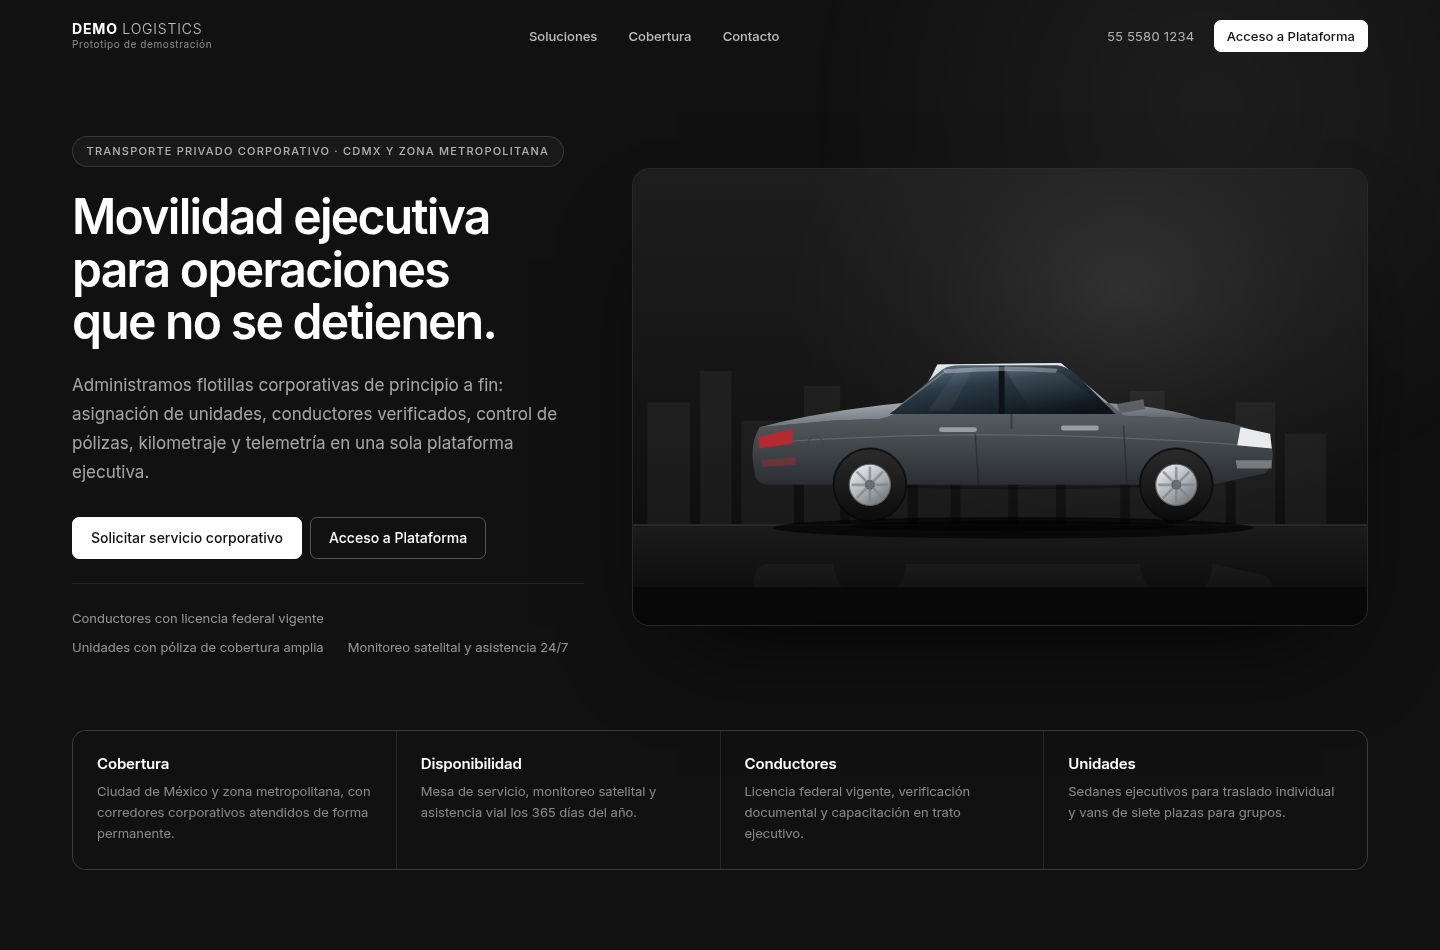
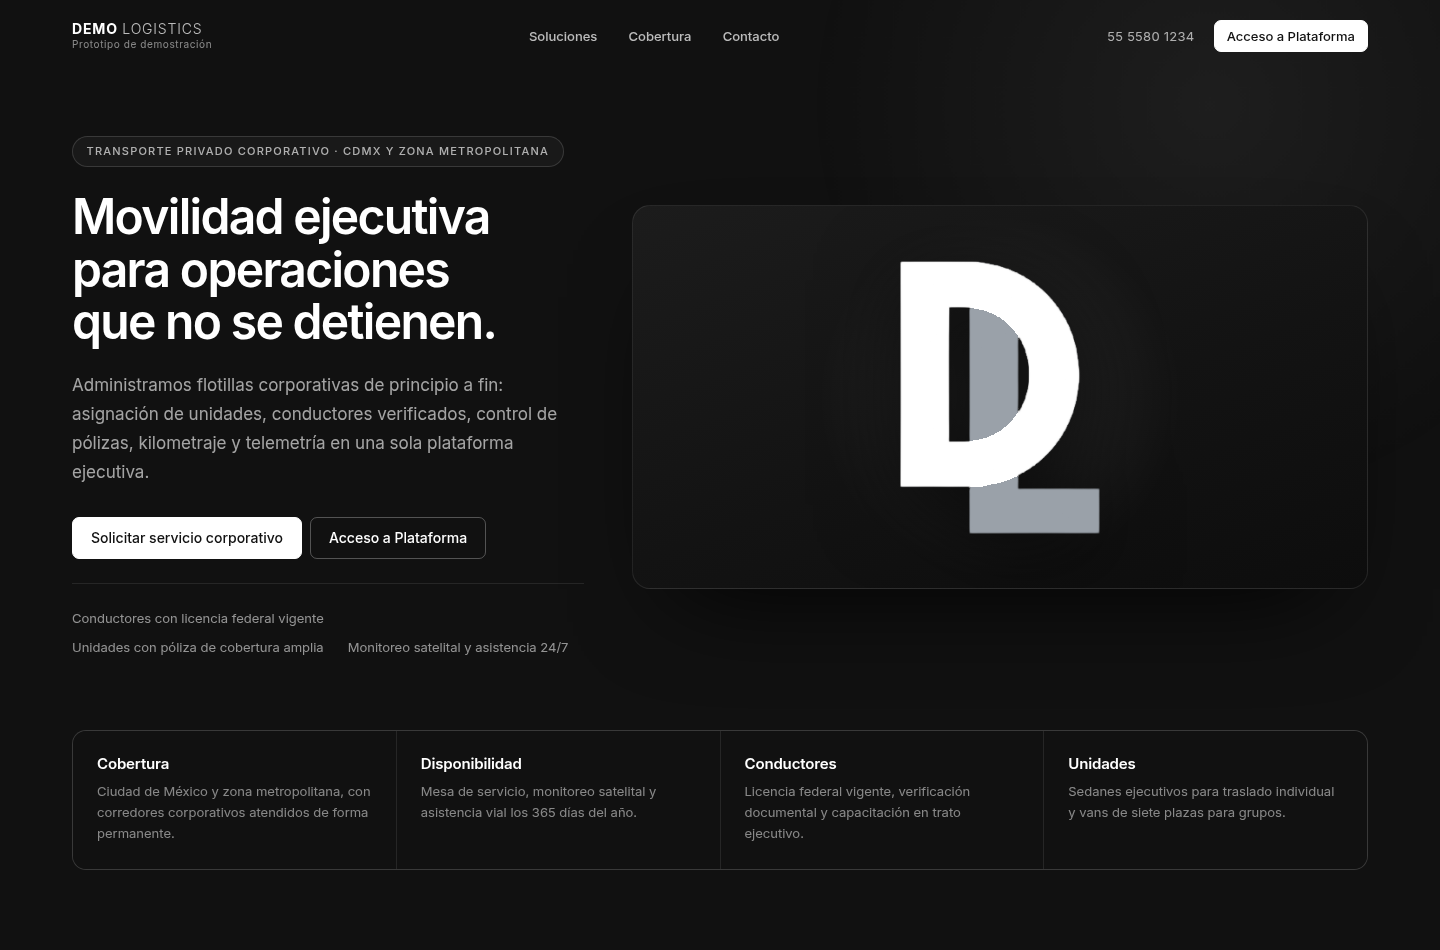
feat(marca): usa el logotipo en la landing y como icono de la pestaña
Sustituye la ilustración del automóvil por el logotipo entregado
(/home/cocorilla/Descargas/temp/a/logo.png) y lo adopta como icono del
navegador.

Logotipo
- Se recorta el espacio transparente sobrante: el monograma ocupa 200x273 px
  dentro de un lienzo de 666x375 con 84 % de área vacía.
- Se generan dos variantes: `logo.png` con los tonos originales (negro y gris)
  para superficies claras y `logo-claro.png` con los tonos remapeados a blanco
  y gris claro para superficies oscuras. El hero tiene fondo negro, así que usa
  la variante clara; de otro modo el monograma sería invisible.
- El hero deja de mostrar la ilustración del sedán y pasa a mostrar el
  monograma centrado sobre un panel oscuro con un halo suave.

Icono de la pestaña
- `favicon-32.png` (32x32) y `apple-touch-icon.png` (180x180): monograma claro
  sobre una placa oscura redondeada, para que se lea tanto en barras de
  pestañas claras como oscuras.
- `images/icono-512.png` (512x512) para usos de mayor tamaño.
- Se retiran `favicon.ico` y `favicon.svg`, que ya no se referencian.

Limpieza
- Se eliminan `unidad-ejecutiva.svg` y `unidad-ejecutiva.png`.

Verificación: 34 pruebas de backend, 4 de frontend, build de producción sin
avisos y 33 comprobaciones visuales, más una específica que confirma que el
logo carga, que los iconos se declaran y sirven, y que los recursos obsoletos
responden 404. 0 errores de página.

Changed region(s): [[0.5, 0.2747, 0.9062, 0.58], [0.75, 0.2747, 0.8125, 0.3358]]

diff --git a/frontend/src/app/features/landing/components/hero/hero.scss b/frontend/src/app/features/landing/components/hero/hero.scss
@@ -66,26 +66,45 @@
   color: rgba(255, 255, 255, 0.55);
 }
 
-/* --- Ilustración --- */
+/* --- Marcador de marca --- */
 .dl-hero__figure {
   position: relative;
+  display: grid;
+  place-items: center;
+  min-height: 24rem;
   margin: 0;
+  padding: 3rem;
   border-radius: 18px;
   overflow: hidden;
   border: 1px solid rgba(255, 255, 255, 0.09);
+  background: linear-gradient(160deg, #1c1c1c 0%, #131313 55%, #0d0d0d 100%);
   box-shadow: 0 46px 100px -46px rgba(0, 0, 0, 0.95);
-  background: #141414;
 }
 
-.dl-hero__image {
+.dl-hero__halo {
+  position: absolute;
+  top: 50%;
+  left: 50%;
+  width: 26rem;
+  height: 26rem;
+  margin: -13rem 0 0 -13rem;
+  border-radius: 50%;
+  background: radial-gradient(circle, rgba(255, 255, 255, 0.09) 0%, rgba(255, 255, 255, 0) 62%);
+  pointer-events: none;
+}
+
+.dl-hero__logo {
+  position: relative;
   display: block;
-  width: 100%;
+  width: auto;
+  max-width: 46%;
+  max-height: 18rem;
   height: auto;
-  transform: scale(1.01);
-  transition: transform 1.2s cubic-bezier(0.22, 0.61, 0.36, 1);
+  filter: drop-shadow(0 18px 40px rgba(0, 0, 0, 0.65));
+  transition: transform 1.1s cubic-bezier(0.22, 0.61, 0.36, 1);
 }
 
-.dl-hero__figure:hover .dl-hero__image {
+.dl-hero__figure:hover .dl-hero__logo {
   transform: scale(1.035);
 }
 

diff --git a/frontend/src/index.html b/frontend/src/index.html
@@ -7,7 +7,8 @@
   <meta name="viewport" content="width=device-width, initial-scale=1">
   <meta name="theme-color" content="#111111">
   <meta name="description" content="DemoLogistics: prototipo de demostración de una plataforma ejecutiva de gestión de flota y transporte corporativo privado. Datos simulados, sin relación con una empresa real.">
-  <link rel="icon" type="image/svg+xml" href="favicon.svg">
+  <link rel="icon" type="image/png" sizes="32x32" href="favicon-32.png">
+  <link rel="apple-touch-icon" sizes="180x180" href="apple-touch-icon.png">
   <link rel="preconnect" href="https://fonts.googleapis.com">
   <link rel="preconnect" href="https://fonts.gstatic.com" crossorigin>
   <link rel="stylesheet" href="https://fonts.googleapis.com/css2?family=Inter:wght@300;400;500;600;700&display=swap">

diff --git a/frontend/src/app/features/landing/components/hero/hero.html b/frontend/src/app/features/landing/components/hero/hero.html
@@ -36,12 +36,13 @@
       <!-- Ilustración -->
       <div class="col-lg-7">
         <figure class="dl-hero__figure" dlReveal="zoom" [dlRevealDelay]="200">
+          <span class="dl-hero__halo" aria-hidden="true"></span>
           <img
-            class="dl-hero__image"
+            class="dl-hero__logo"
             [src]="heroImage"
-            width="900"
-            height="560"
-            alt="Unidad ejecutiva de la flota en operación nocturna"
+            width="200"
+            height="273"
+            alt="DemoLogistics"
             loading="eager"
             decoding="async"
           />

diff --git a/frontend/src/app/features/landing/components/hero/hero.ts b/frontend/src/app/features/landing/components/hero/hero.ts
@@ -20,8 +20,11 @@ import { RevealDirective } from '../../../../shared/directives/reveal.directive'
 export class HeroComponent {
   private readonly landing = inject(LandingService);
 
-  /** Ruta de la ilustración principal. */
-  readonly heroImage = 'images/unidad-ejecutiva.svg';
+  /**
+   * Logo en su variante clara: el hero tiene fondo oscuro y la versión
+   * original (negra) no sería visible.
+   */
+  readonly heroImage = 'images/logo-claro.png';
 
   /** Pilares institucionales mostrados bajo el hero. */
   readonly pillars = this.landing.pillars;

diff --git a/README.md b/README.md
@@ -166,8 +166,8 @@ npx ng serve --port 4201 --host 127.0.0.1
 
 - **Header minimalista** con logotipo, navegación por anclas y botón **Acceso a Plataforma**
   que lleva a la pantalla de credenciales.
-- **Hero** con la propuesta de valor y una **ilustración propia** (`public/images/unidad-ejecutiva.svg`,
-  también en PNG). No hay panel con datos: la landing no publica información de la aplicación.
+- **Hero** con la propuesta de valor y el **logotipo** (`public/images/logo-claro.png`). No hay
+  panel con datos: la landing no publica información de la aplicación.
 - **Pilares institucionales**: cobertura, disponibilidad, conductores y unidades.
 - **Soluciones** y **canales de contacto**: contenido servido por el backend.
 - **Cobertura:** mapa Leaflet con las **zonas comerciales** donde se presta servicio, no la
@@ -337,7 +337,25 @@ actualización de telemetría, ausencia de indicadores de estado e iconografía,
 
 ---
 
-## 9. Capturas
+## 9. Identidad gráfica
+
+El logotipo vive en `frontend/public/images/` en dos variantes, más los iconos del navegador:
+
+| Archivo | Uso |
+|---|---|
+| `images/logo.png` | Variante original (negro y gris) para superficies claras |
+| `images/logo-claro.png` | Variante clara para superficies oscuras (hero, cabeceras) |
+| `images/icono-512.png` | Icono de 512 px |
+| `favicon-32.png` | Icono de la pestaña del navegador |
+| `apple-touch-icon.png` | Icono para iOS (180 px) |
+
+Los archivos se generan a partir del logotipo original recortando el espacio transparente
+sobrante y produciendo la variante clara por remapeo de tonos, de modo que el monograma se lea
+tanto sobre negro como sobre blanco.
+
+---
+
+## 10. Capturas
 
 | Acceso a la plataforma | Panel de flota (Superusuario) |
 |---|---|
@@ -353,7 +371,7 @@ actualización de telemetría, ausencia de indicadores de estado e iconografía,
 
 ---
 
-## 10. Notas
+## 11. Notas
 
 **DemoLogistics es un nombre de trabajo, no una marca.** El proyecto es un prototipo de
 demostración: los nombres, teléfonos, pólizas, VIN y matrículas son ficticios, y las
